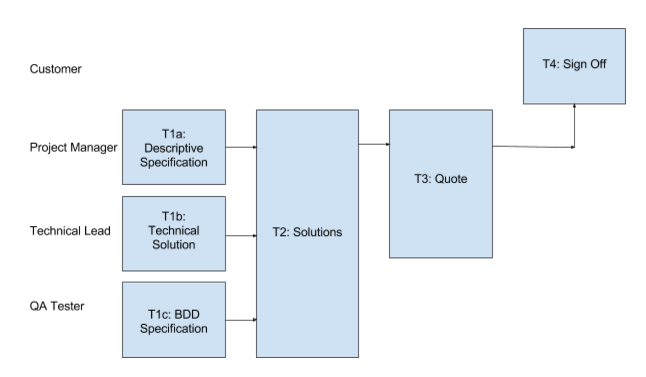
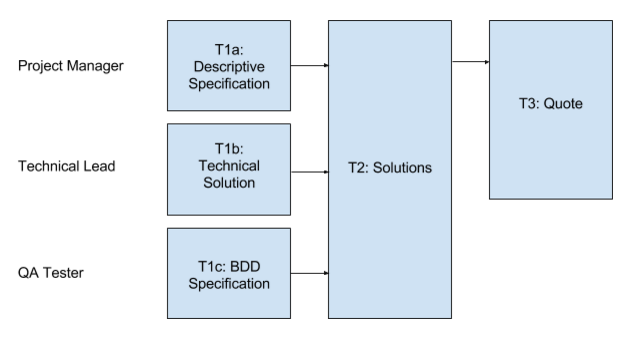
Remove sign off from spec writing

diff --git a/_content/SoftwareDevelopment-subtopics/SpecificationWriting.md b/_content/SoftwareDevelopment-subtopics/SpecificationWriting.md
@@ -8,6 +8,7 @@ status: TODO
 	- Outline the chosen soultion
 	- Define the criteria for success
 	- Define the technical approach for the development
+	- Assign an effort to the development
 
 ## Roles
 - **Project Manager**
@@ -16,8 +17,6 @@ status: TODO
 	- The technical owner of the part of the system which is to be changed (if the development is wide ranging multiple technical leads may be required)
 - **QA Tester**
 	- A member of the QA team (ideally someone who is familiar with the area of the system being changed)
-- **Customer**
-	- The stakeholder at the client's business for the required changes
 
 ## Entry Criteria
 - A completed requirements document as per the [Requirements Gathering Process][1]
@@ -36,8 +35,6 @@ T2. 	Group Review: **Project Manager**, **Technical Lead** and **QA Tester** sho
 
 T3. Quote: **Technical Lead** provides a final development effort for the ticket. **Project Manager** adds development days and billing details to the JIRA ticket, the ticket is then moved into *Quoted* status
 
-T4. 	Sign Off: **Customer** reviews the finalised specification to ensure that all requirements are met to their satisfcation and that they understand what will be delivered. **Customer** also verifies that the defined criteria for success match with how they intent to ultimately test the development. **Customer** confirms they are happy with the quoted price of development. **Customer** moves the ticket into *Development Approved*
-
 ## Verification
 N/A
 
@@ -47,7 +44,7 @@ N/A
 - All parties are satisfied that the specification document is not missing any success criteria
 - **Technical Lead** is happy that any developer could pick up the job based on the information in the specification alone
 - A development effort and billing details have been added to the JIRA ticket
-- The status of the JIRA ticket is *Development Approved*
+- The status of the JIRA ticket is *Quoted*
 
 ## Deliverables
 D1. A finalised specification document which meets with the provided template
